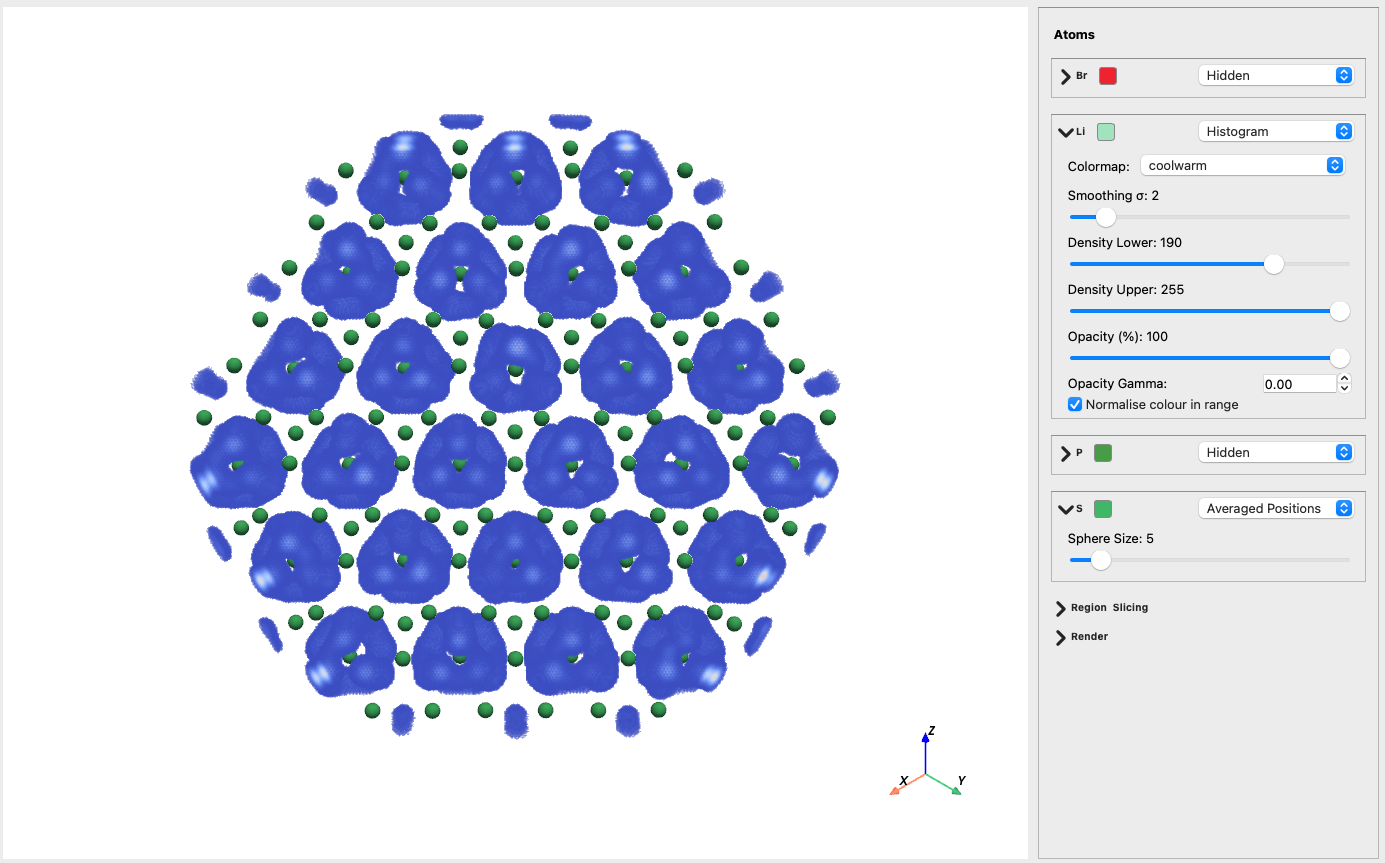
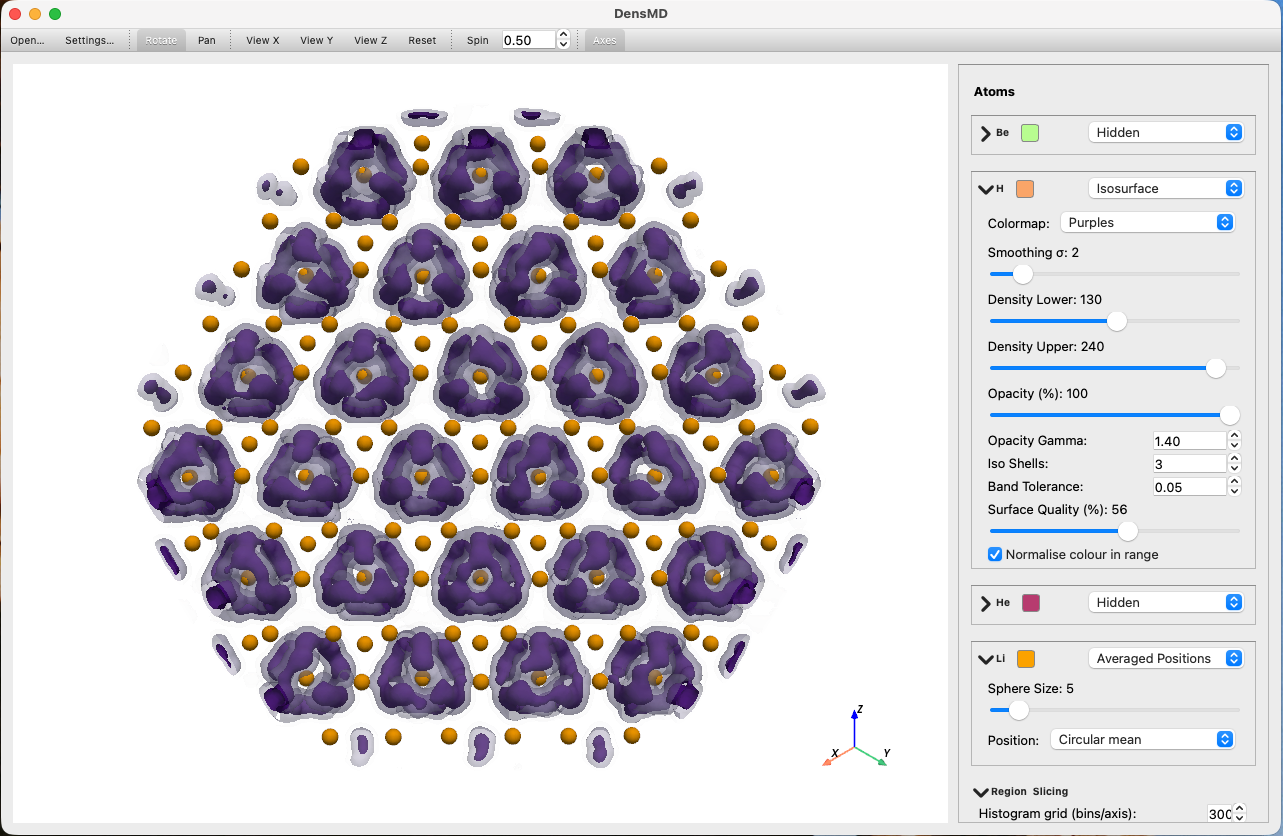
sort atoms by atomic number. update main ui photo. tighten the README

diff --git a/densmd/model.py b/densmd/model.py
@@ -22,11 +22,17 @@ from typing import Dict, List, Optional, Tuple
 
 import numpy as np
 from scipy.ndimage import gaussian_filter, map_coordinates
+from ase.data import atomic_numbers
 
 from .config import Settings
 from .io import LoadSpec
 from .miller import MillerParams, voxel_axes, voxel_mask
 from .unwrap import representative_positions
+
+
+def sort_species_by_atomic_number(symbols: List[str]) -> List[str]:
+    """Sort a list of element symbols by atomic number, then alphabetically."""
+    return sorted(set(symbols), key=lambda s: (atomic_numbers.get(s, 999), s))
 
 
 # ---------------------------------------------------------------------------
@@ -105,7 +111,7 @@ class DensityModel:
     def scan_species(spec: LoadSpec) -> List[str]:
         """Read only the first frame and return its (mapped) unique species."""
         first = spec.load_first_frame()
-        return sorted(set(spec.mapped_symbols(first)))
+        return sort_species_by_atomic_number(spec.mapped_symbols(first))
 
     # -- loading ---------------------------------------------------------
     def load(self, spec: LoadSpec) -> None:
@@ -115,7 +121,7 @@ class DensityModel:
             raise ValueError("No frames loaded. Check file path and slice.")
 
         symbols = spec.mapped_symbols(frames[0])
-        self.species = sorted(set(symbols))
+        self.species = sort_species_by_atomic_number(symbols)
         idx_map = {s: np.array([i for i, sym in enumerate(symbols) if sym == s])
                    for s in self.species}
 

diff --git a/README.md b/README.md
@@ -1,34 +1,24 @@
 # DensMD
 
-A simple PyQt5-based application for visualising atomic trajectory data (constant volume) in 3D, designed specifically for molecular dynamics analysis.
+A (becoming less) simple PyQt5-based application for visualising atomic trajectory data in 3D, designed specifically for molecular dynamics analysis.
 ![Main Interface](images/main_screen.png)
 
 ## Overview
 
-DensMD provides a powerful, quick, interactive GUI for loading molecular dynamics trajectory data, computing density histograms and averaged positions, and visualising the results with various rendering modes and slicing options. The tool is particularly useful for analysing atomic distributions and migrations in crystal structures.
+DensMD provides a powerful, quick, interactive GUI for loading molecular dynamics trajectory data, computing density histograms/isosurfaces and averaged positions, and visualising the results with various rendering modes and slicing options. The tool is particularly useful for analysing atomic distributions and migrations in crystal structures.
 
 ## Features
 
 - **Multiple Visualisation Modes**
-  - Voxel density histograms with customisable colour maps, rendered on the
-    GPU (fast) or CPU (pixel-exact edges) — switchable in the Render panel
-  - Nested isosurface shells extracted from the same density field — fast,
-    razor-sharp, with per-shell opacity ramping (shell count, band tolerance
-    and surface smoothing are adjustable per atom)
-  - Averaged atomic positions with adjustable sphere sizes — by default each
-    atom is drawn at its *most-visited site* (periodic-aware mode), so
-    two-site hoppers never smear into the gap between sites
+  - Voxel density histograms
+  - Nested isosurface shells 
+  - Atomic positions 
   - Per-atom type visualisation settings
 
 - **Miller Plane Slicing**
   - Define custom Miller indices (hkl)
   - Adjustable slice thickness and offset
   - Automatic camera alignment to plane
-
-- **Responsive Rendering**
-  - Appearance changes (colour, opacity, gamma) never recompute the density
-  - Interactive LOD: coarse sampling while the camera moves, full quality on
-    release (toggleable in the Render panel)
 
 ## Screenshots
 
@@ -78,18 +68,7 @@ To open a file directly from the command line:
 ```bash
 python run_densmd.py /path/to/traj.dat --slice ::5 --map H:Li,He:P
 ```
-
-Averaged-atom positions default to the **most-visited site (mode)**: each
-atom's trajectory is kernel-density scored with minimum-image distances, and
-the atom is drawn at the centre of its dominant cluster. A vibrating atom
-shows at its site, a 70/30 two-site hopper shows at the 70 % site, and a
-boundary hopper shows at the boundary — no statistic ever lands in a gap the
-atom never occupies. A periodic-aware **circular mean** and the **naive
-mean** are also available in **File > Settings**, along with a frame
-subsample stride. For **NPT** trajectories each frame is remapped into the
-mean cell via fractional coordinates, so both the density histograms and the
-atom positions stay consistent as the cell fluctuates.
-
+.
 Other compute defaults (smoothing, update delay, plane resolution) also live in
 **File > Settings** and persist to `~/.densmd.json`.
 
@@ -124,20 +103,12 @@ and no camera jump.
 
 ## Future Development
 
-Done recently:
-- Multi-module package (config / io / miller / model / render / ui)
-- In-app file loading and settings (no source editing)
-- Two-tier update pipeline for fast appearance changes
-- Stereo 3D render toggle
-- Isosurface shell mode (nested contours, fast + sharp)
-- GPU/CPU volume mapper toggle and interactive LOD
-- Averaged ion positions done properly: most-visited site (periodic-aware
-  mode) by default, with circular-mean and naive-mean options — no more
-  hoppers averaging into gaps they never occupy
-
 Still planned:
 - Export functionality for images and videos
 - Measurement tools for atomic distances and angles
+- Miller slicing and calculation of what to render is still incredibly slow and rudamentary. Whole visualisation pipeline needs to be reworked to allow for more efficient slicing and rendering of Miller planes / selection of what to render! 
+
+Feature Requests are welcome!
 
 ## License
 
@@ -145,7 +116,7 @@ This project is licensed under the GNU Affero General Public License v3.0 - see 
 
 ## Credits
 
-Developed by Chris Davies (2025)
+Developed by Chris Davies (2025/26) @ Uni of Oxford, Department of Materials.
 
 ## Contributing
 
